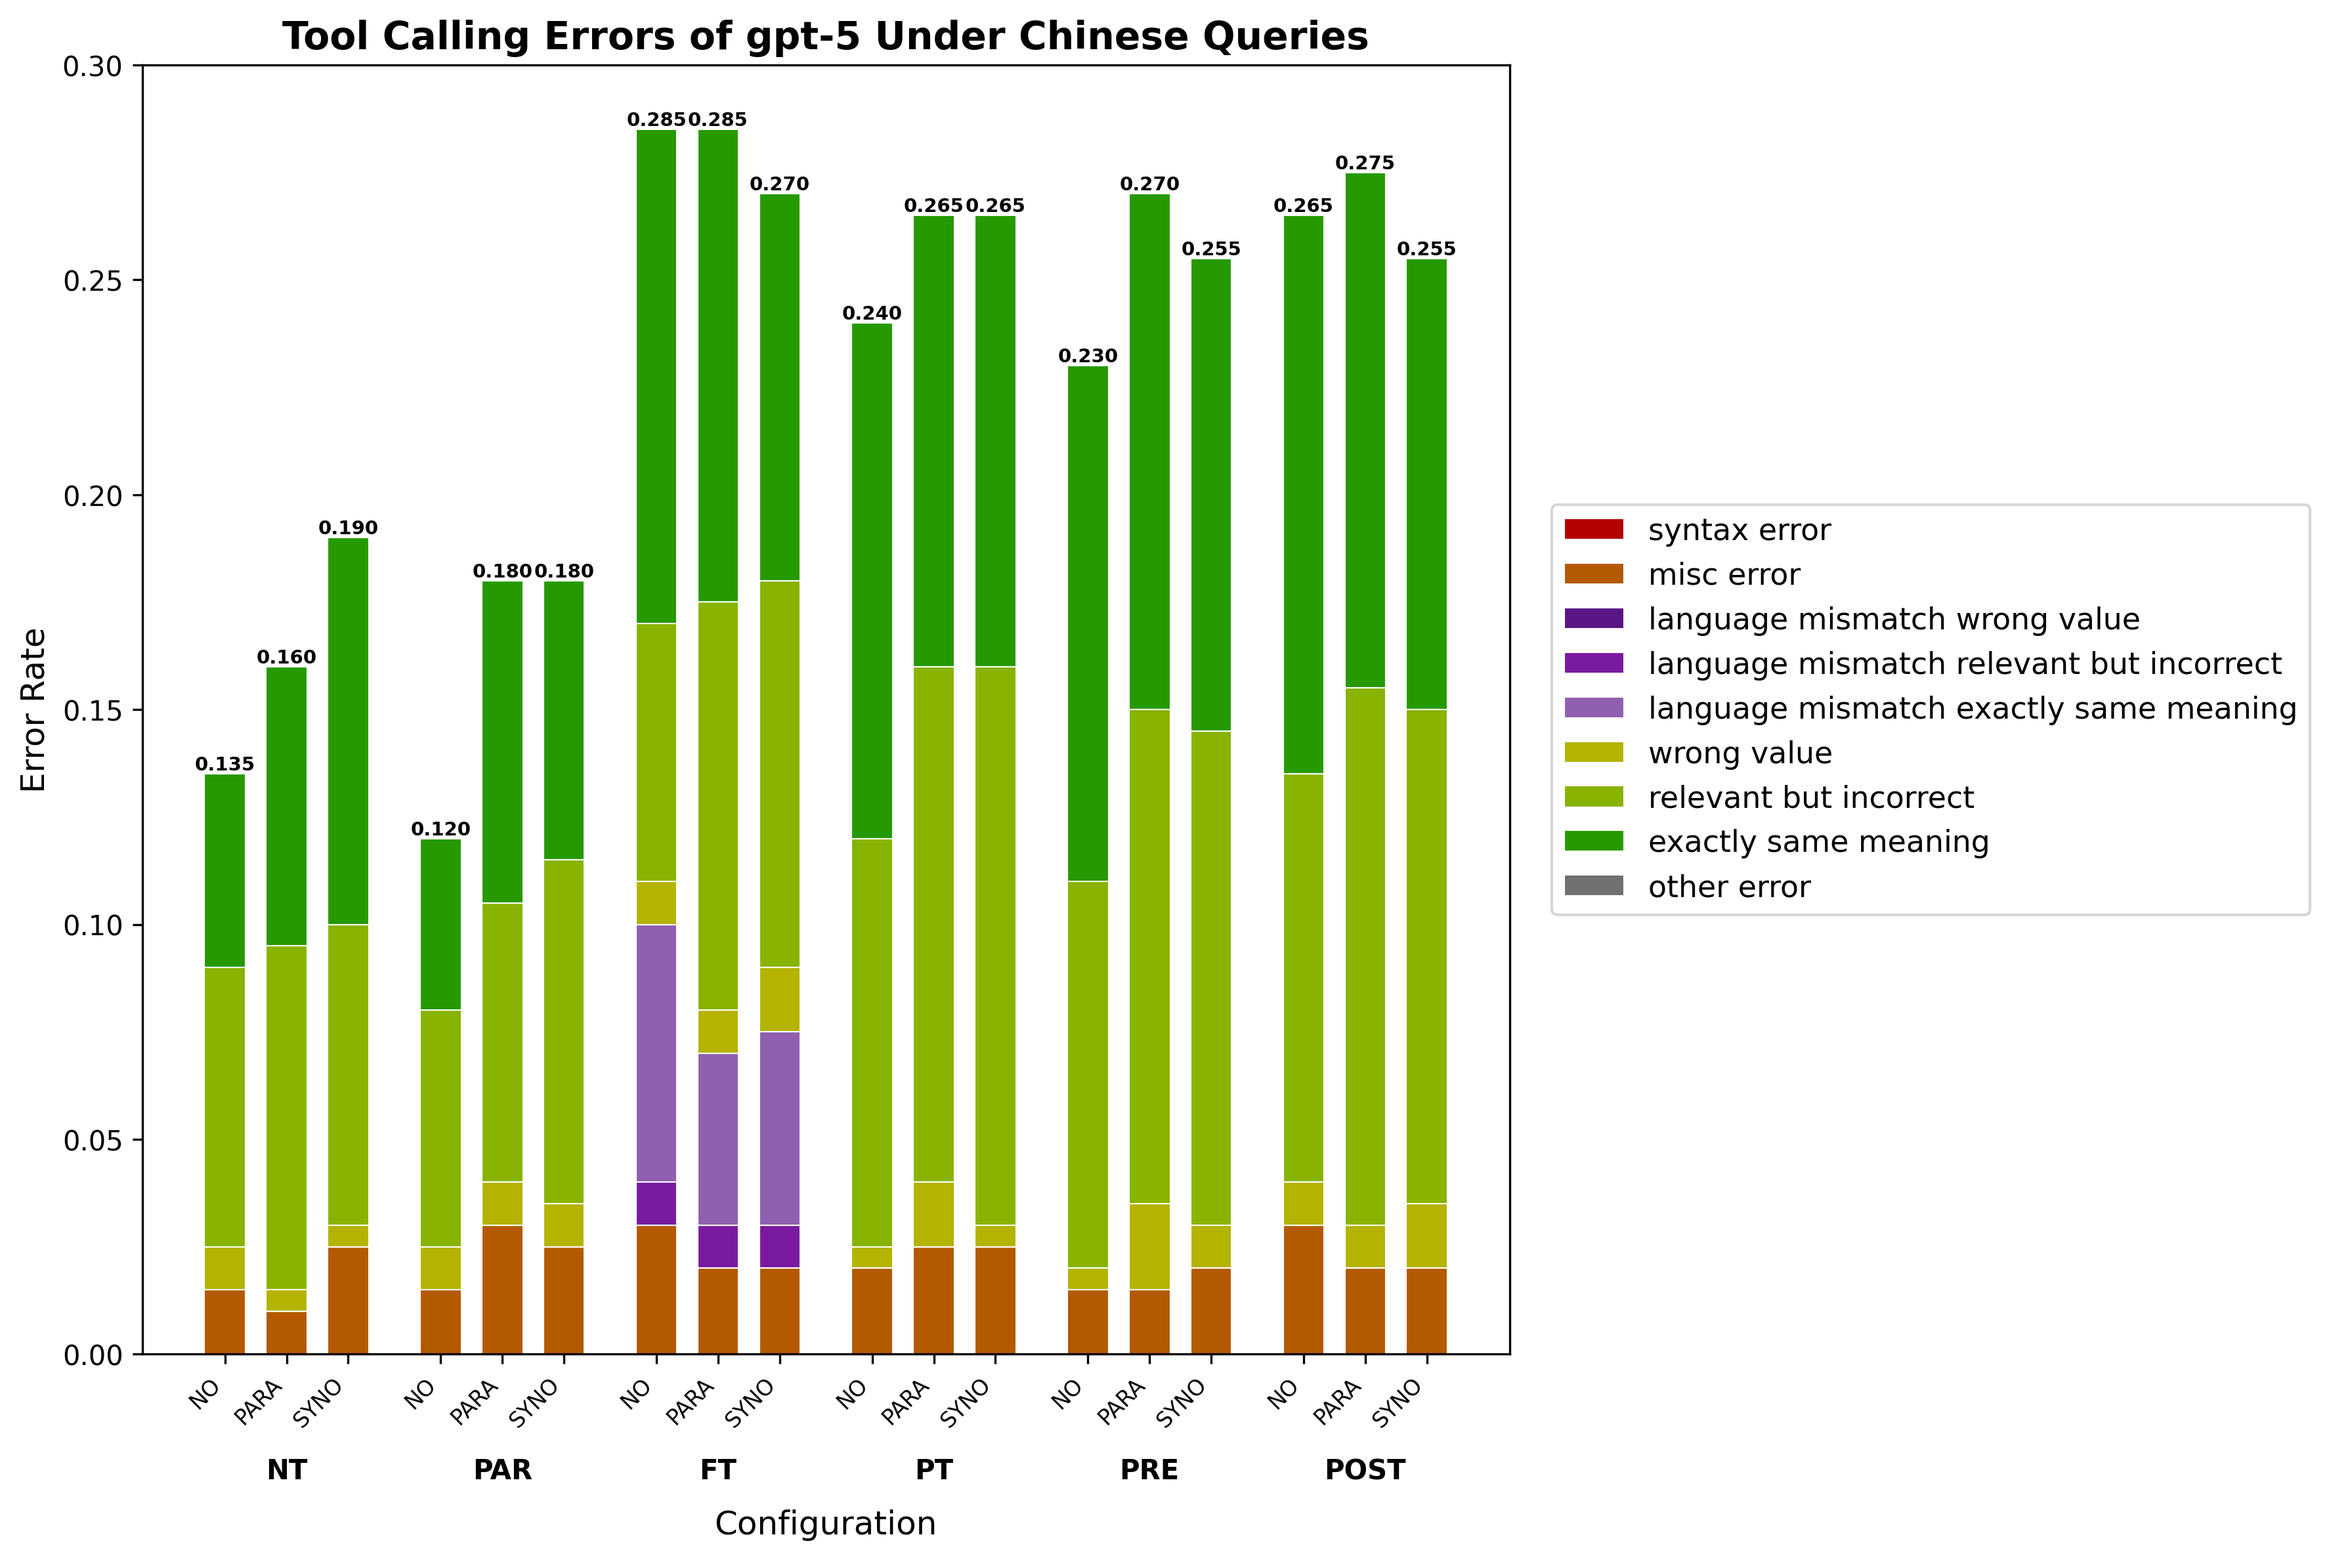
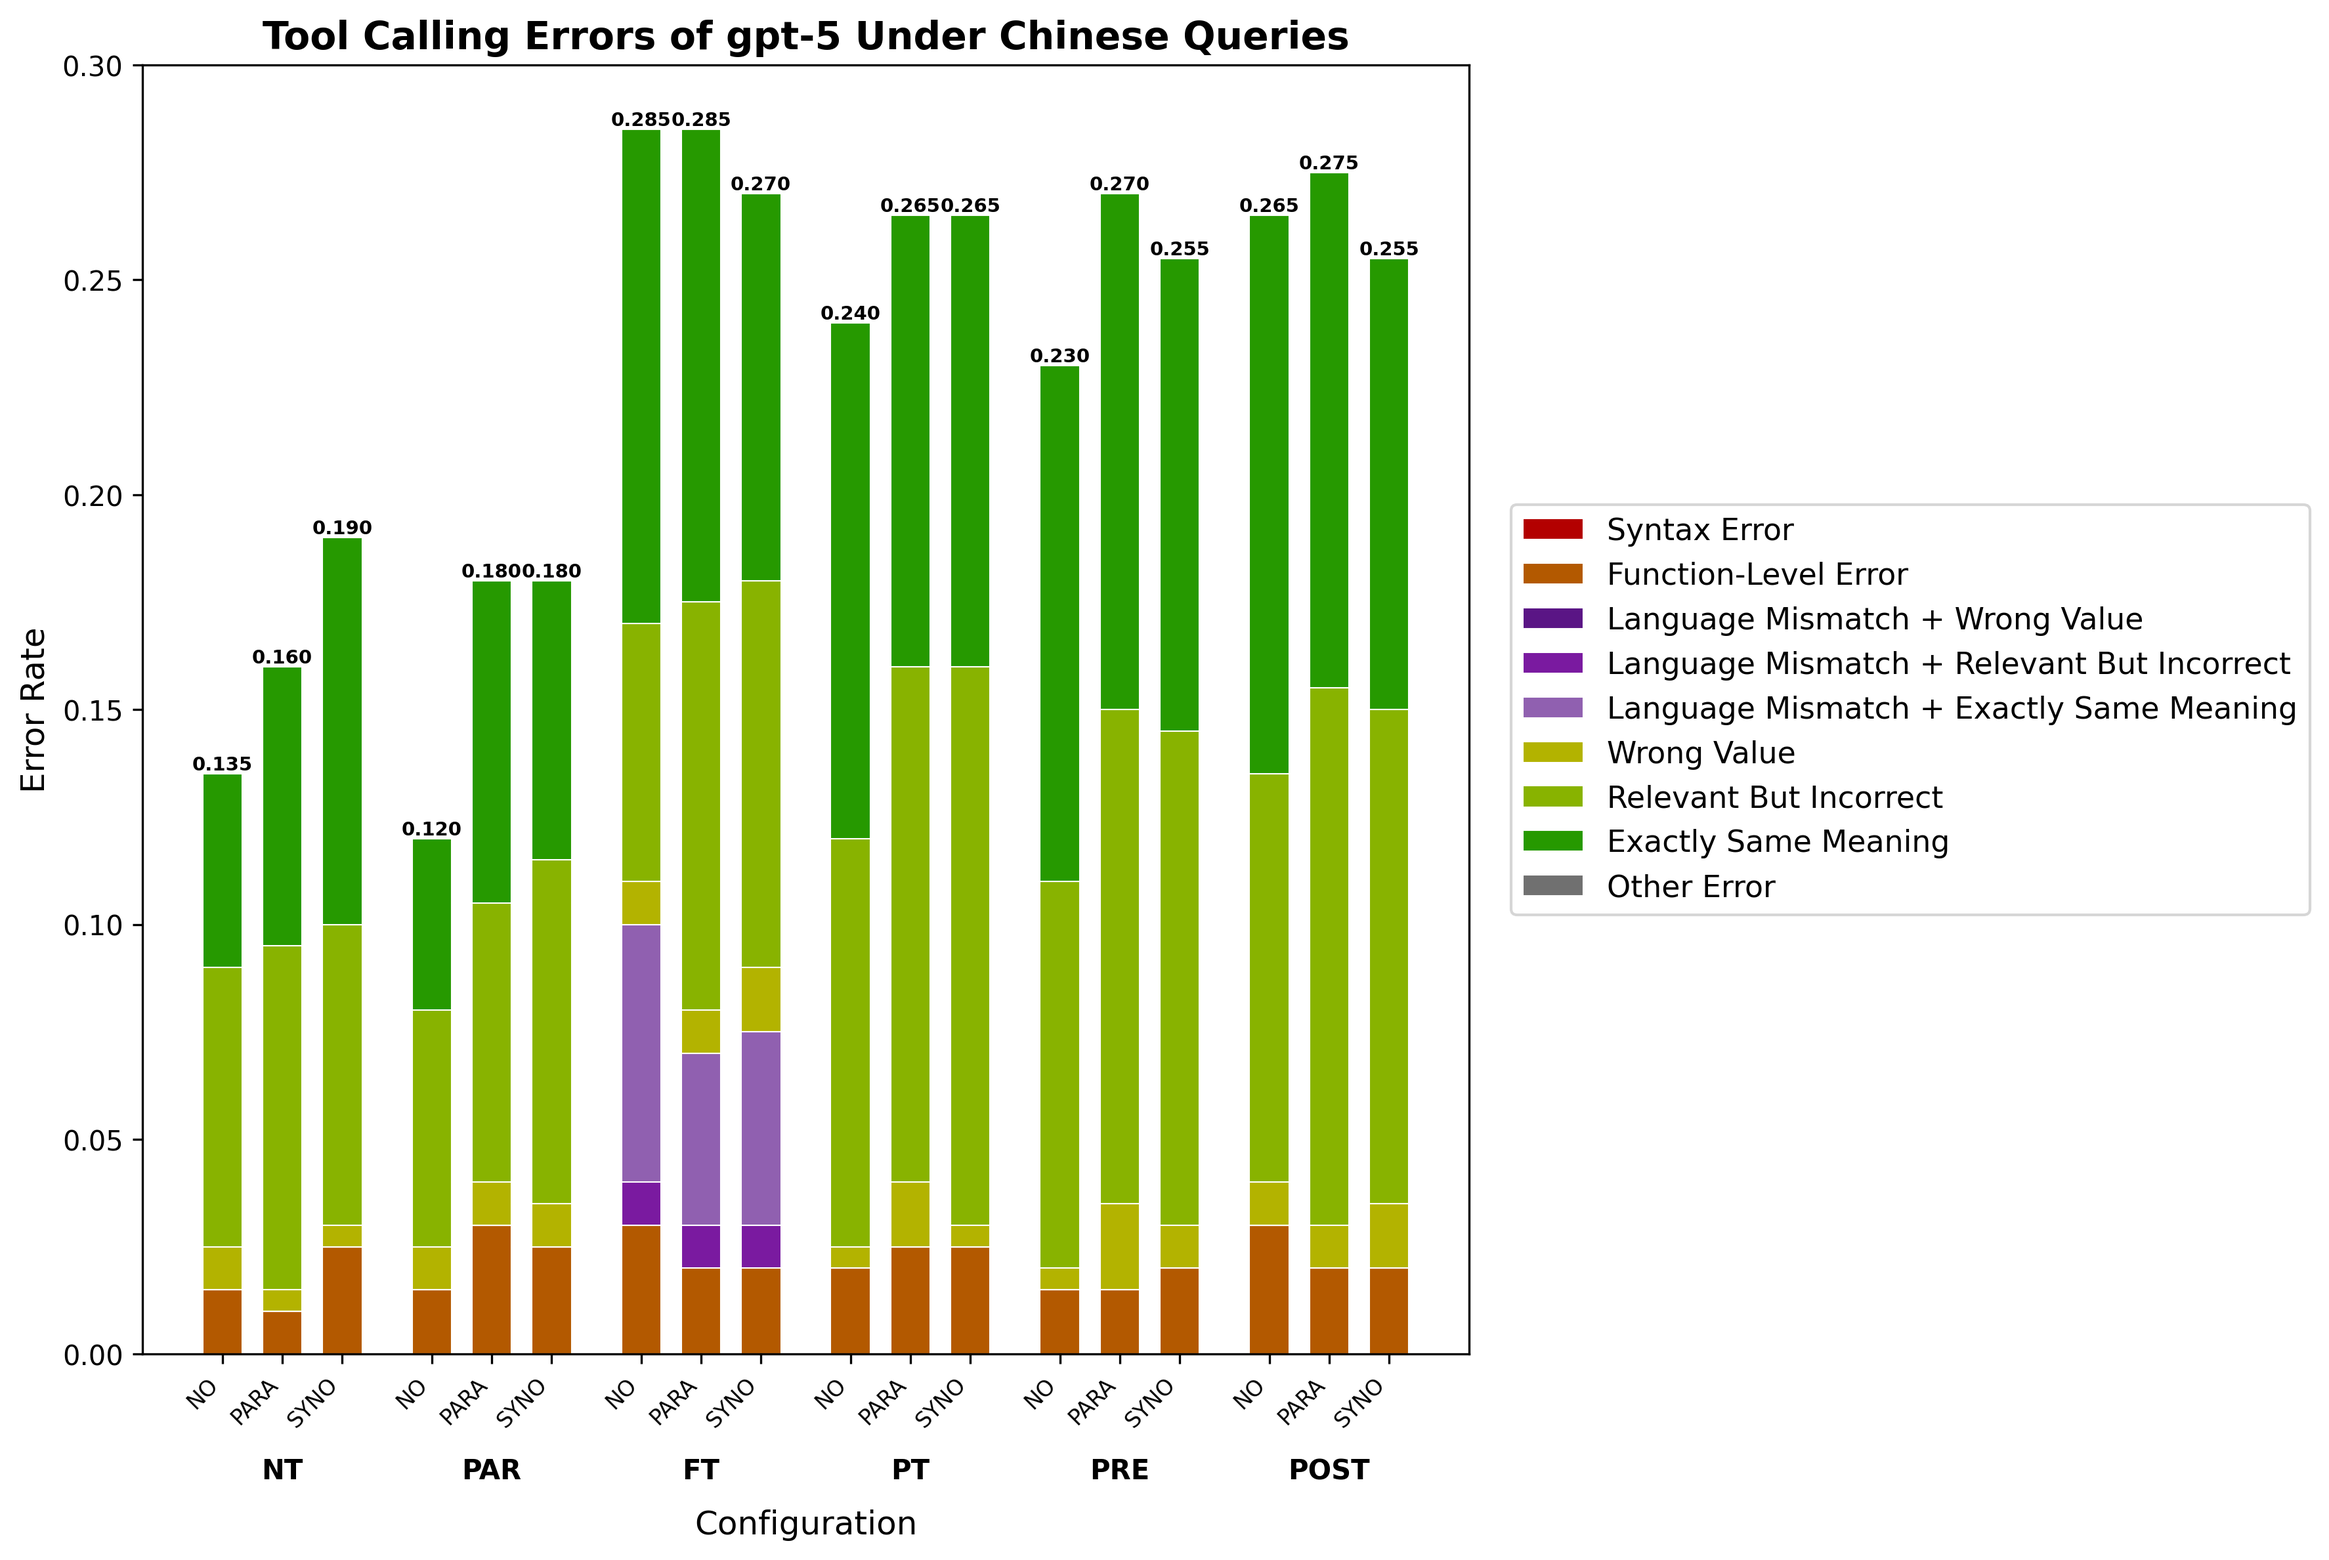
modified stacked bar script

diff --git a/tool_stacked_bar_common.py b/tool_stacked_bar_common.py
@@ -23,7 +23,7 @@ noise_modes = ["NO_NOISE", "PARAPHRASE", "SYNONYM"]
 # Error categories (from ToolErrorCategory enum) - PascalCase format
 error_categories = [
     "SyntaxError",
-    "MiscError",
+    "FunctionLevelError",
     "LanguageMismatchWrongValue",
     "LanguageMismatchRelevantButIncorrect",
     "LanguageMismatchExactlySameMeaning",
@@ -36,7 +36,7 @@ error_categories = [
 # Color map for each error category (darker, uniform brightness)
 category_colors = {
     "SyntaxError": "#b30000",  # Dark red
-    "MiscError": "#b35900",  # Dark orange
+    "FunctionLevelError": "#b35900",  # Dark orange
     "LanguageMismatchWrongValue": "#5a1585", # Dark purple
     "LanguageMismatchRelevantButIncorrect": "#7a1aa0",  # Medium purple
     "LanguageMismatchExactlySameMeaning": "#9060b0",  # Light purple
@@ -57,7 +57,7 @@ language_tag_map = {
 # Category mapping from statistics file format to PascalCase
 category_map = {
     "SYNTAX_ERROR": "SyntaxError",
-    "MISC_ERROR": "MiscError",
+    "MISC_ERROR": "FunctionLevelError",
     "LANGUAGE_MISMATCH_WRONG_VALUE": "LanguageMismatchWrongValue",
     "LANGUAGE_MISMATCH_RELEVANT_BUT_INCORRECT": "LanguageMismatchRelevantButIncorrect",
     "LANGUAGE_MISMATCH_EXACTLY_SAME_MEANING": "LanguageMismatchExactlySameMeaning",
@@ -69,14 +69,26 @@ category_map = {
 
 
 def pascal_to_readable(pascal_str: str) -> str:
-    """
-    Convert PascalCase string to lowercase with spaces.
-    E.g., "LanguageMismatchExactlySameMeaning" -> "language mismatch exactly same meaning"
-    """
-    import re
-    # Insert space before uppercase letters (except the first one)
-    spaced = re.sub(r'(?<!^)(?=[A-Z])', ' ', pascal_str)
-    return spaced.lower()
+    # """
+    # Convert PascalCase string to lowercase with spaces.
+    # E.g., "LanguageMismatchExactlySameMeaning" -> "language mismatch exactly same meaning"
+    # """
+    # import re
+    # # Insert space before uppercase letters (except the first one)
+    # spaced = re.sub(r'(?<!^)(?=[A-Z])', ' ', pascal_str)
+    # return spaced.lower()
+    readable_map = {
+        "SyntaxError": "Syntax Error",
+        "FunctionLevelError": "Function-Level Error",
+        "LanguageMismatchWrongValue": "Language Mismatch + Wrong Value",
+        "LanguageMismatchRelevantButIncorrect": "Language Mismatch + Relevant But Incorrect",
+        "LanguageMismatchExactlySameMeaning": "Language Mismatch + Exactly Same Meaning",
+        "WrongValue": "Wrong Value",
+        "RelevantButIncorrect": "Relevant But Incorrect",
+        "ExactlySameMeaning": "Exactly Same Meaning",
+        "OtherError": "Other Error",
+    }
+    return readable_map[pascal_str]
 
 
 def parse_filename_tags(filename: str) -> Tuple[str, str, str, str, str, str, str]:
